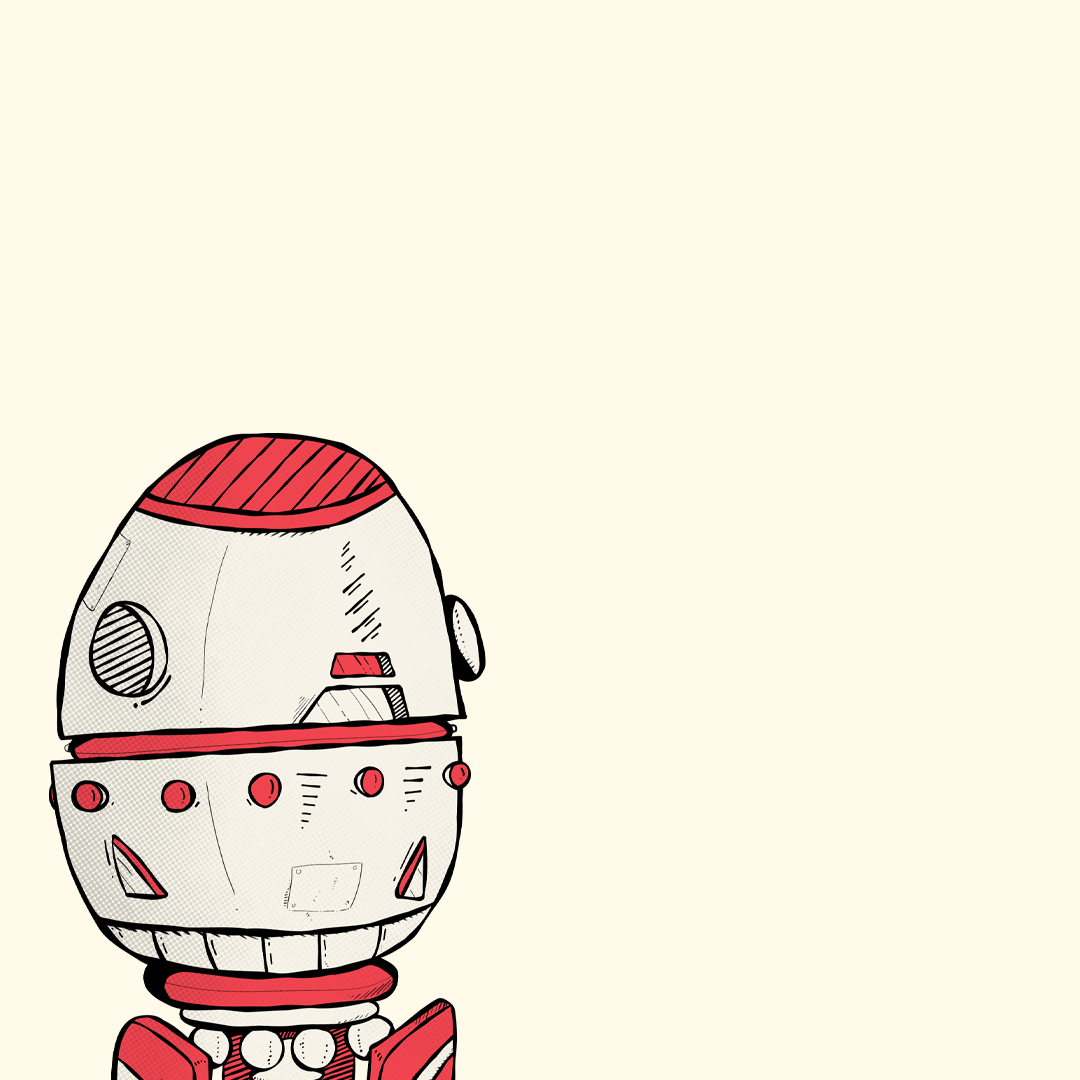
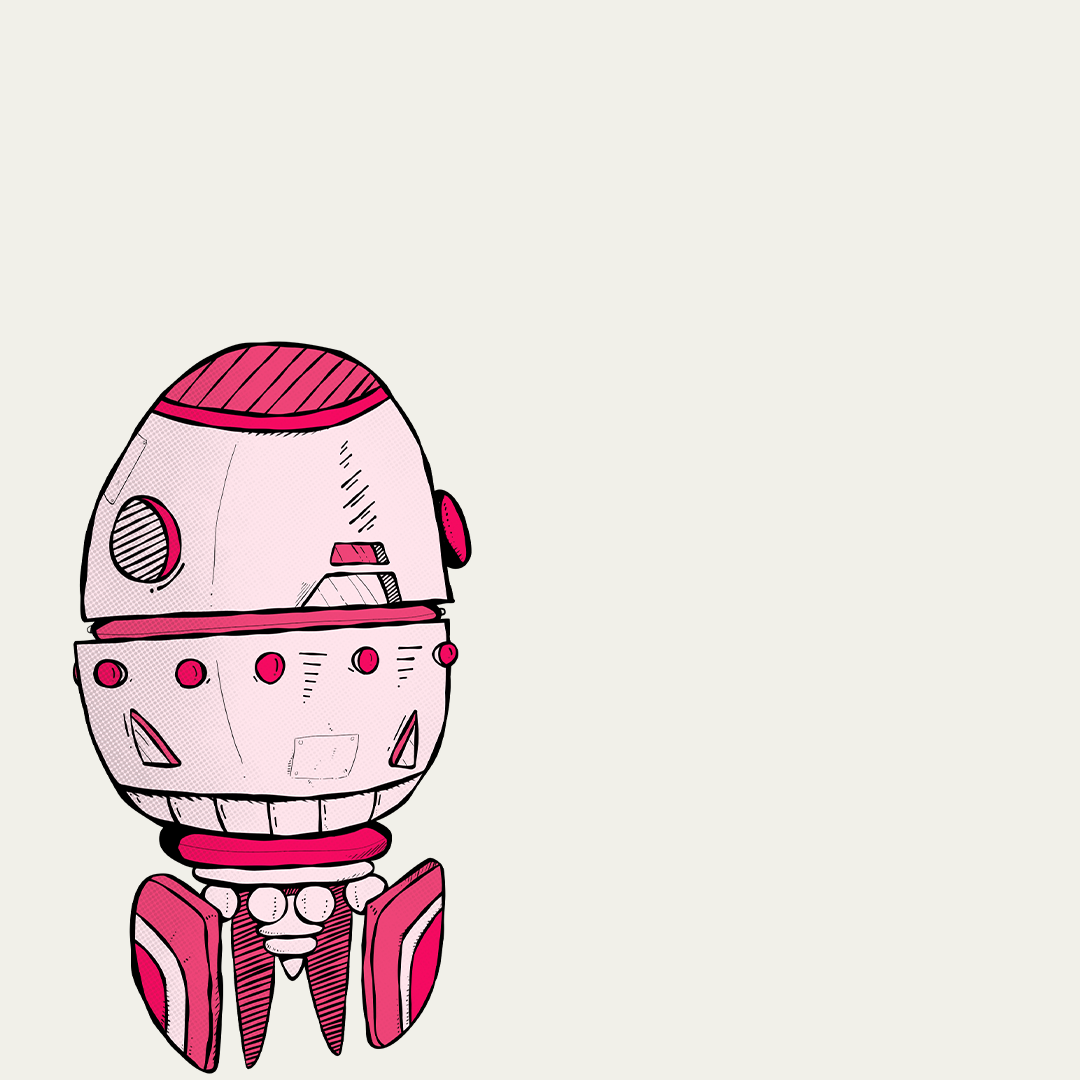
fixed and changed colors and images

Changed region(s): [[0.0306, 0.3056, 0.4583, 1.0]]

diff --git a/app/globals.css b/app/globals.css
@@ -106,11 +106,11 @@
   --surface-canvas: #0e100f;
   --surface-nested-panel: #191919;
   --foreground-surface: #fffcf5;
-  --shockingly-green: #13dd8c;
+  --shockingly-green: #40c19a;
   --light-green: #85ffce;
-  --orangey: #f34747;
+  --orangey: #ef4478;
   --orangey-soft: #ffc078;
-  --pink: #fe8ca4;
+  --pink: #ff9b88;
   --lilac: #9d95ff;
   --blue: #00bae2;
 }
@@ -124,11 +124,11 @@
   --surface-canvas: #0e100f;
   --surface-nested-panel: #191919;
   --foreground-surface: #fffcf5;
-  --shockingly-green: #13dd8c;
+  --shockingly-green: #40c19a;
   --light-green: #85ffce;
-  --orangey: #f34747;
+  --orangey: #ef4478;
   --orangey-soft: #ffc078;
-  --pink: #fe8ca4;
+  --pink: #ff9b88;
   --lilac: #9d95ff;
   --blue: #00bae2;
 }
@@ -142,11 +142,11 @@
   --surface-canvas: #fffcf5;
   --surface-nested-panel: #f7f3e7;
   --foreground-surface: #0e100f;
-  --shockingly-green: #13dd8c;
+  --shockingly-green: #40c19a;
   --light-green: #0d8f6a;
-  --orangey: #f34747;
+  --orangey: #ef4478;
   --orangey-soft: #e08a2a;
-  --pink: #fe8ca4;
+  --pink: #ff9b88;
   --lilac: #5c52d4;
   --blue: #007a99;
 }
@@ -161,11 +161,11 @@
   --surface-canvas: #0e100f;
   --surface-nested-panel: #191919;
   --foreground-surface: #fffcf5;
-  --shockingly-green: #13dd8c;
+  --shockingly-green: #40c19a;
   --light-green: #85ffce;
-  --orangey: #f34747;
+  --orangey: #ef4478;
   --orangey-soft: #ffc078;
-  --pink: #fe8ca4;
+  --pink: #ff9b88;
   --lilac: #9d95ff;
   --blue: #00bae2;
   --color-background: #0e100f;
@@ -197,11 +197,11 @@
   --surface-canvas: #fffcf5;
   --surface-nested-panel: #d9f3e6;
   --foreground-surface: #0e100f;
-  --shockingly-green: #068a56;
+  --shockingly-green: #40c19a;
   --light-green: #0d8f6a;
-  --orangey: #f34747;
+  --orangey: #ef4478;
   --orangey-soft: #e08a2a;
-  --pink: #fe8ca4;
+  --pink: #ff9b88;
   --lilac: #5c52d4;
   --blue: #007a99;
   --color-background: #fffcf5;

diff --git a/lib/service-images.ts b/lib/service-images.ts
@@ -13,8 +13,8 @@ export const serviceImages: Partial<Record<string, ThemeImagePair>> = {
     dark: "/merchandise-dark.webp",
   },
   web: {
-    light: "/brandIdentity-light.webp",
-    dark: "/brandIdentity-dark.webp",
+    light: "/webdev-light.webp",
+    dark: "/webdev-light.webp",
   },
   illustration: {
     light: "/merchandise-light.webp",
